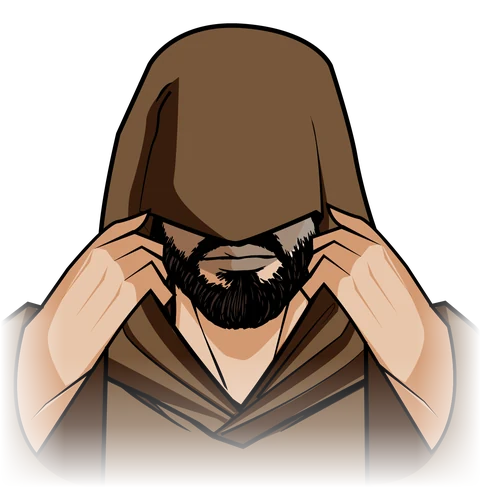
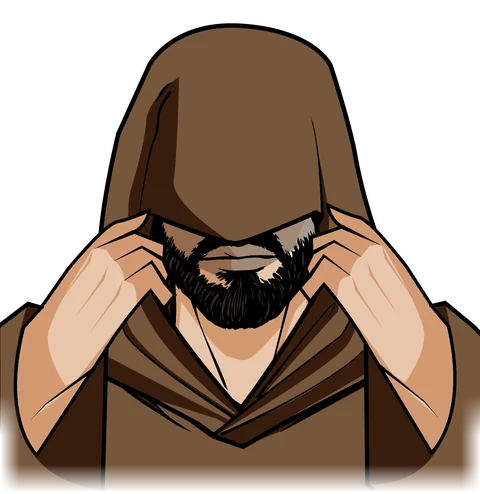
Equipo: difuminar solo un borde fino de los hombros
El difuminado de hombros empezaba al 72 % de la altura de cada figura
(lados al 13 %), así que medio pecho quedaba semitransparente. Con el
orbe dorado del fondo (commit siguiente) se veían las llamas a través
de las personas, sobre todo en el móvil, donde la figura sale grande.

Ahora el cuerpo es opaco y solo se difumina un borde fino: vertical del
94 % al 99,5 % y lados al 4 % solo en la parte baja. Se regeneran las
capas capucha, manos y rostro de las cinco personas (el cuerpo sin
difuminar de la fila de atrás no cambia).

Probado: capturas en Chrome de escritorio y móvil.

Changed region(s): [[0.0, 0.6073, 1.0, 1.0]]

diff --git a/web/tools/procesar-equipo.py b/web/tools/procesar-equipo.py
@@ -48,15 +48,16 @@ CAPAS = ("capucha", "manos", "rostro")
 def mascara_hombros(ancho: int, alto: int) -> np.ndarray:
     """Opacidad (0..1) por píxel para difuminar la parte baja de la figura.
 
-    - Vertical: opaco hasta el 72 % de la altura, baja al 66 % en el 86 % y llega a 0 en el 98,5 %.
-    - Lados: 13 % de cada borde, que solo actúa en la parte baja (entra entre el 55 % y el 65 %).
-    Son los mismos valores que tenían las imágenes de la v1.
+    - Vertical: opaco hasta el 94 % de la altura y llega a 0 en el 99,5 %.
+    - Lados: 4 % de cada borde, solo en la parte baja (entra entre el 80 % y el 88 %).
+    Es solo un borde fino: con el de la v1 (72 % → 98,5 %, lados 13 % desde el 55 %) el pecho quedaba
+    semitransparente y se veía el orbe del fondo a través de las figuras.
     """
     y = np.arange(alto)[:, None] / alto
     x = np.arange(ancho)[None, :] / ancho
-    vertical = np.interp(y, [0, .72, .86, .985, 1], [1, 1, .66, 0, 0])
-    lados = np.minimum(np.clip(x / .133, 0, 1), np.clip((1 - x) / .133, 0, 1))
-    peso_lados = np.interp(y, [0, .55, .65, 1], [0, 0, 1, 1])
+    vertical = np.interp(y, [0, .94, .995, 1], [1, 1, 0, 0])
+    lados = np.minimum(np.clip(x / .04, 0, 1), np.clip((1 - x) / .04, 0, 1))
+    peso_lados = np.interp(y, [0, .80, .88, 1], [0, 0, 1, 1])
     return vertical * (1 - (1 - lados) * peso_lados)
 
 
